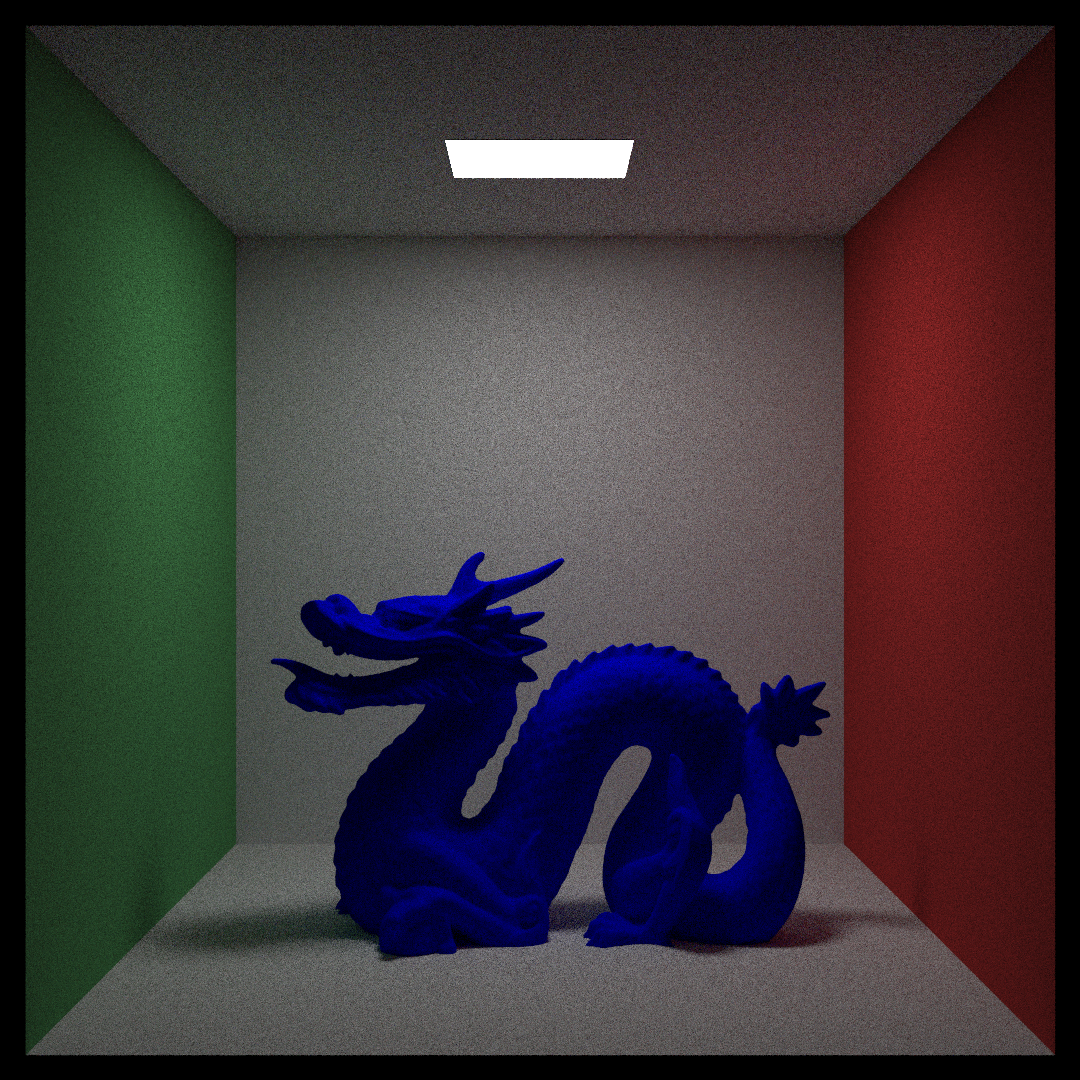
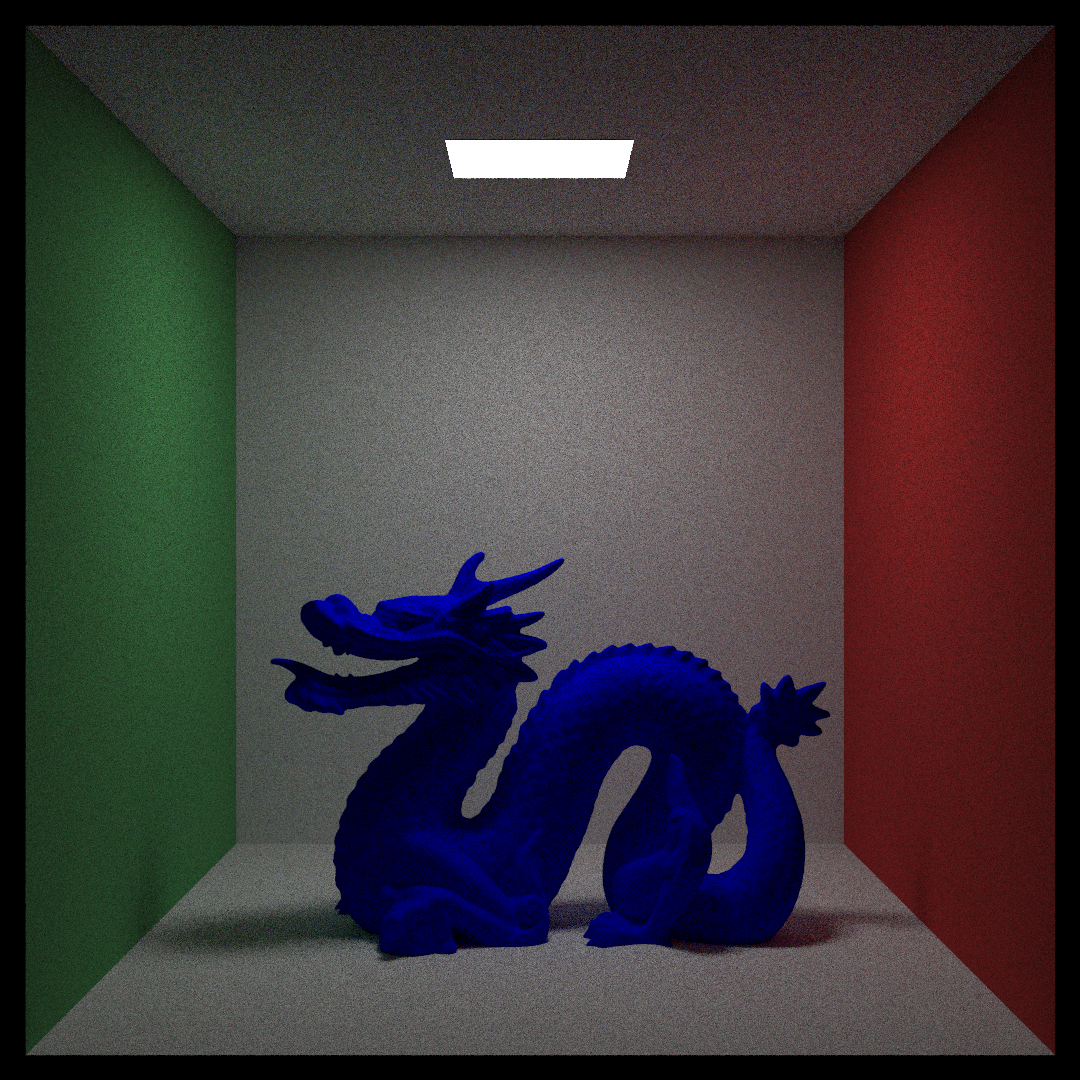
improved bounding box construction by adding surface area huristic

diff --git a/kernels/src/hitables/hitable_list_builder.rs b/kernels/src/hitables/hitable_list_builder.rs
@@ -4,6 +4,7 @@ use crate::{
     boundingbox::{BoundingBox, IntoBoundingBox},
     hitables::HitKind,
     hitables::hitable_list::HitableList,
+    vec3::Real,
 };
 
 impl<'a> IntoBoundingBox for HitableListBuilder<'a> {
@@ -29,7 +30,7 @@ impl<'a> HitableListBuilder<'a> {
         }
     }
 
-    fn split(self) -> (HitableListBuilder<'a>, Option<HitableListBuilder<'a>>) {
+    fn split_median(self) -> (HitableListBuilder<'a>, Option<HitableListBuilder<'a>>) {
         let bounding_box = self.boundingbox();
 
         let axis = bounding_box.longest_axis();
@@ -64,6 +65,90 @@ impl<'a> HitableListBuilder<'a> {
         }
     }
 
+    fn split_sah<const BINS: usize>(
+        self,
+    ) -> (HitableListBuilder<'a>, Option<HitableListBuilder<'a>>) {
+        if self.hitables.len() <= 8 {
+            return (self, None);
+        }
+
+        let bbox = self.boundingbox();
+        let axis = bbox.longest_axis();
+        let axis_min = bbox.min.at_axis(&axis);
+        let axis_max = bbox.max.at_axis(&axis);
+        let bin_width = (axis_max - axis_min) / (BINS as Real);
+
+        // Initialize bins
+        let mut bins = vec![(BoundingBox::empty(), 0); BINS];
+
+        // Assign objects to bins and compute bin bounds
+        for hitable in &self.hitables {
+            let center = hitable.boundingbox().center().at_axis(&axis);
+            let bin_index = ((center - axis_min) / bin_width).floor() as usize;
+            let bin_index = bin_index.min(BINS - 1);
+
+            bins[bin_index].0 = bins[bin_index].0.merge(&hitable.boundingbox());
+            bins[bin_index].1 += 1;
+        }
+
+        // Find best split using SAH
+        let mut best_cost = Real::INFINITY;
+        let mut best_split = 0;
+
+        // Precompute prefix sums
+        let mut left_bbox = BoundingBox::empty();
+        let mut left_count = 0;
+
+        for i in 0..BINS - 1 {
+            if bins[i].1 > 0 {
+                left_bbox = left_bbox.merge(&bins[i].0);
+                left_count += bins[i].1;
+            }
+
+            let right_bbox = (i + 1..BINS)
+                .filter_map(|j| {
+                    if bins[j].1 > 0 {
+                        Some(&bins[j].0)
+                    } else {
+                        None
+                    }
+                })
+                .fold(BoundingBox::empty(), |acc, b| acc.merge(b));
+            let right_count: usize = (i + 1..BINS).map(|j| bins[j].1).sum();
+
+            if left_count > 0 && right_count > 0 {
+                let cost = (left_count as Real) * left_bbox.surface_area()
+                    + (right_count as Real) * right_bbox.surface_area();
+
+                if cost < best_cost {
+                    best_cost = cost;
+                    best_split = i;
+                }
+            }
+        }
+
+        // Partition based on best split
+        let split_pos = axis_min + (best_split + 1) as f32 * bin_width;
+        let (left, right): (Vec<_>, Vec<_>) = self
+            .hitables
+            .into_iter()
+            .partition(|h| h.boundingbox().center().at_axis(&axis) < split_pos);
+
+        if right.is_empty() {
+            HitableListBuilder { hitables: left }.split_median()
+        } else {
+            (
+                HitableListBuilder { hitables: left },
+                Some(HitableListBuilder { hitables: right }),
+            )
+        }
+    }
+
+    pub fn subdivide_by4(self, times: usize) -> HitableListBuilder<'a> {
+        let divisions = vec![2; times];
+        self.subdivide(divisions.as_slice())
+    }
+
     pub fn subdivide(self, divisions: &[usize]) -> HitableListBuilder<'a> {
         if divisions.is_empty() {
             return self;
@@ -75,10 +160,7 @@ impl<'a> HitableListBuilder<'a> {
             divided = divided
                 .into_iter()
                 .flat_map(|builder| {
-                    if builder.hitables.len() <= 8 {
-                        return vec![builder];
-                    }
-                    let (left, right) = builder.split();
+                    let (left, right) = builder.split_sah::<32>();
                     if let Some(right) = right {
                         vec![right, left]
                     } else {

diff --git a/src/bin/render.rs b/src/bin/render.rs
@@ -548,7 +548,7 @@ fn bunny<'a>(options: &mut RenderOptions) -> HitableListBuilder<'a> {
     )
     .expect("Failed to parse bunny.obj");
 
-    let bunny = bunny.subdivide(&[3, 3, 3]);
+    let bunny = bunny.subdivide_by4(5);
 
     world.add(Translate::new_owned(
         Vec3::new(277.5, -50.0, 277.5),
@@ -575,7 +575,7 @@ fn dragon<'a>(options: &mut RenderOptions) -> HitableListBuilder<'a> {
     )
     .expect("Failed to parse Dragon_80K.obj");
 
-    let dragon = dragon.subdivide(&[2, 2, 2, 2, 2, 2, 2, 2, 2, 2]);
+    let dragon = dragon.subdivide_by4(8);
 
     world.add(Translate::new_owned(
         Vec3::new(277.5, 100.0, 277.5),

diff --git a/kernels/src/vec3.rs b/kernels/src/vec3.rs
@@ -78,6 +78,14 @@ impl Vec3 {
         let r_out_parallel = normal * -Real::abs(1.0 - r_out_perp.length_squared()).sqrt();
         r_out_perp + r_out_parallel
     }
+
+    pub fn at_axis(&self, axis: &Axis) -> Real {
+        match axis {
+            Axis::X => self.x,
+            Axis::Y => self.y,
+            Axis::Z => self.z,
+        }
+    }
 }
 
 #[cfg(target_os = "cuda")]

diff --git a/kernels/src/boundingbox.rs b/kernels/src/boundingbox.rs
@@ -150,6 +150,13 @@ impl BoundingBox {
         }
         bbox
     }
+
+    pub fn surface_area(&self) -> Real {
+        let dx = self.max.x - self.min.x;
+        let dy = self.max.y - self.min.y;
+        let dz = self.max.z - self.min.z;
+        2.0 * (dx * dy + dy * dz + dz * dx)
+    }
 }
 
 #[enum_dispatch]
